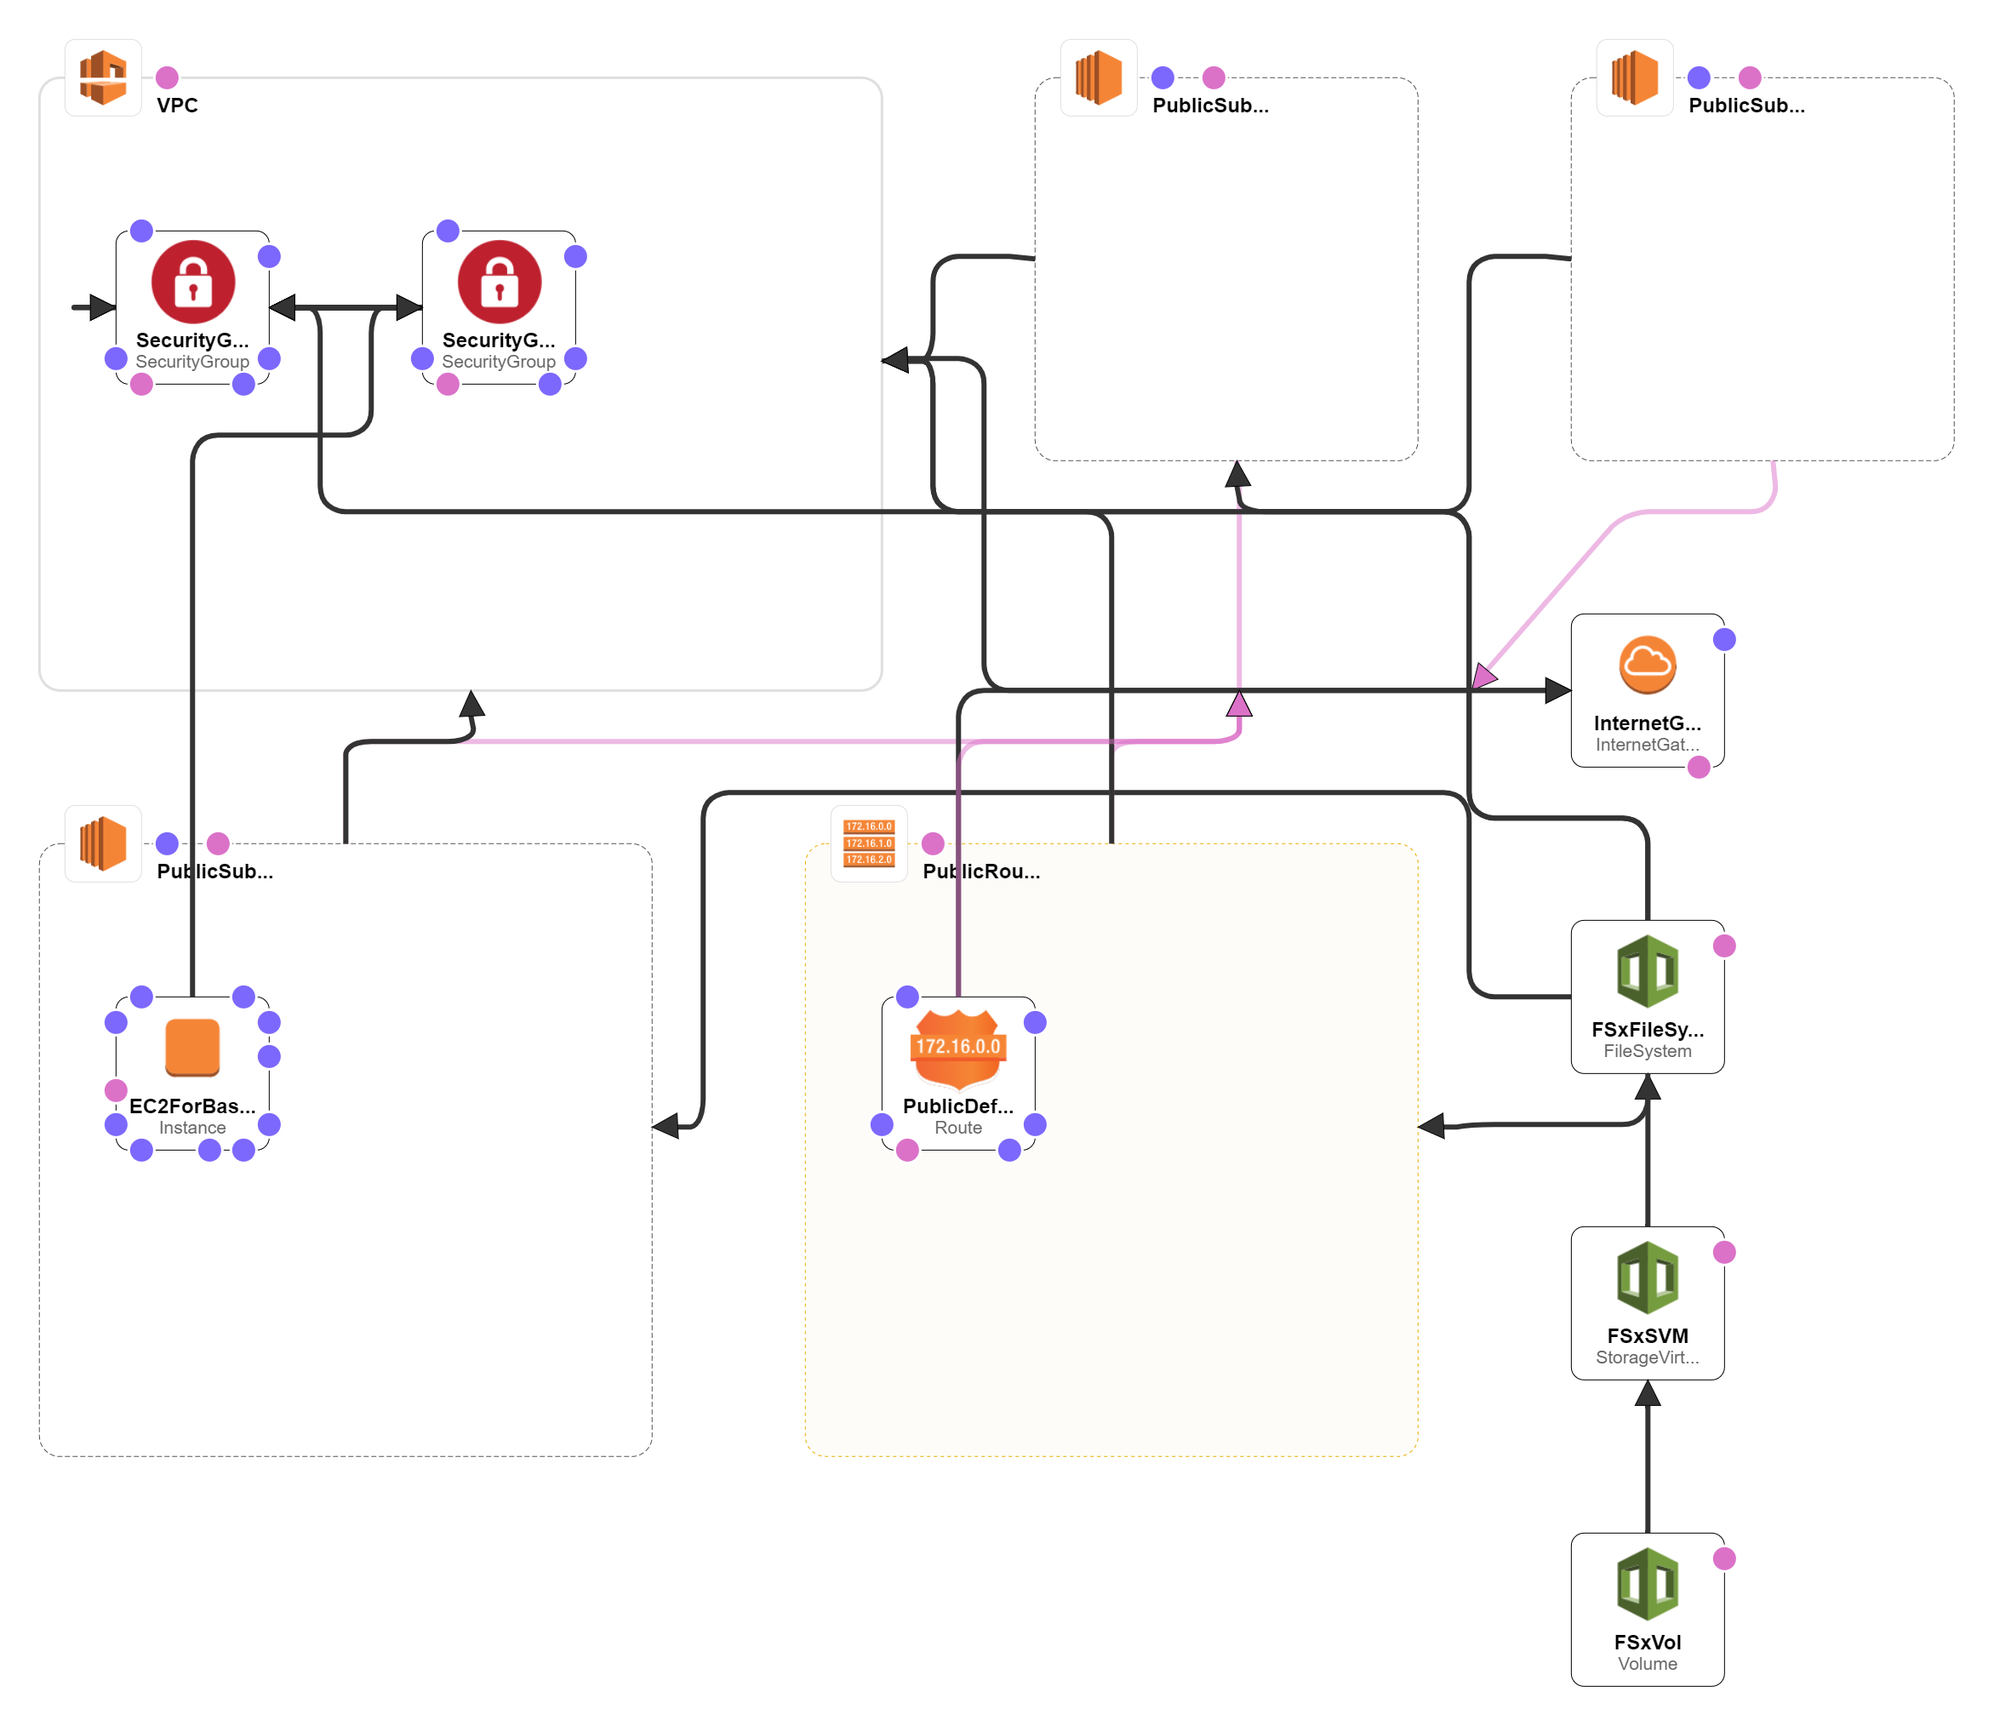
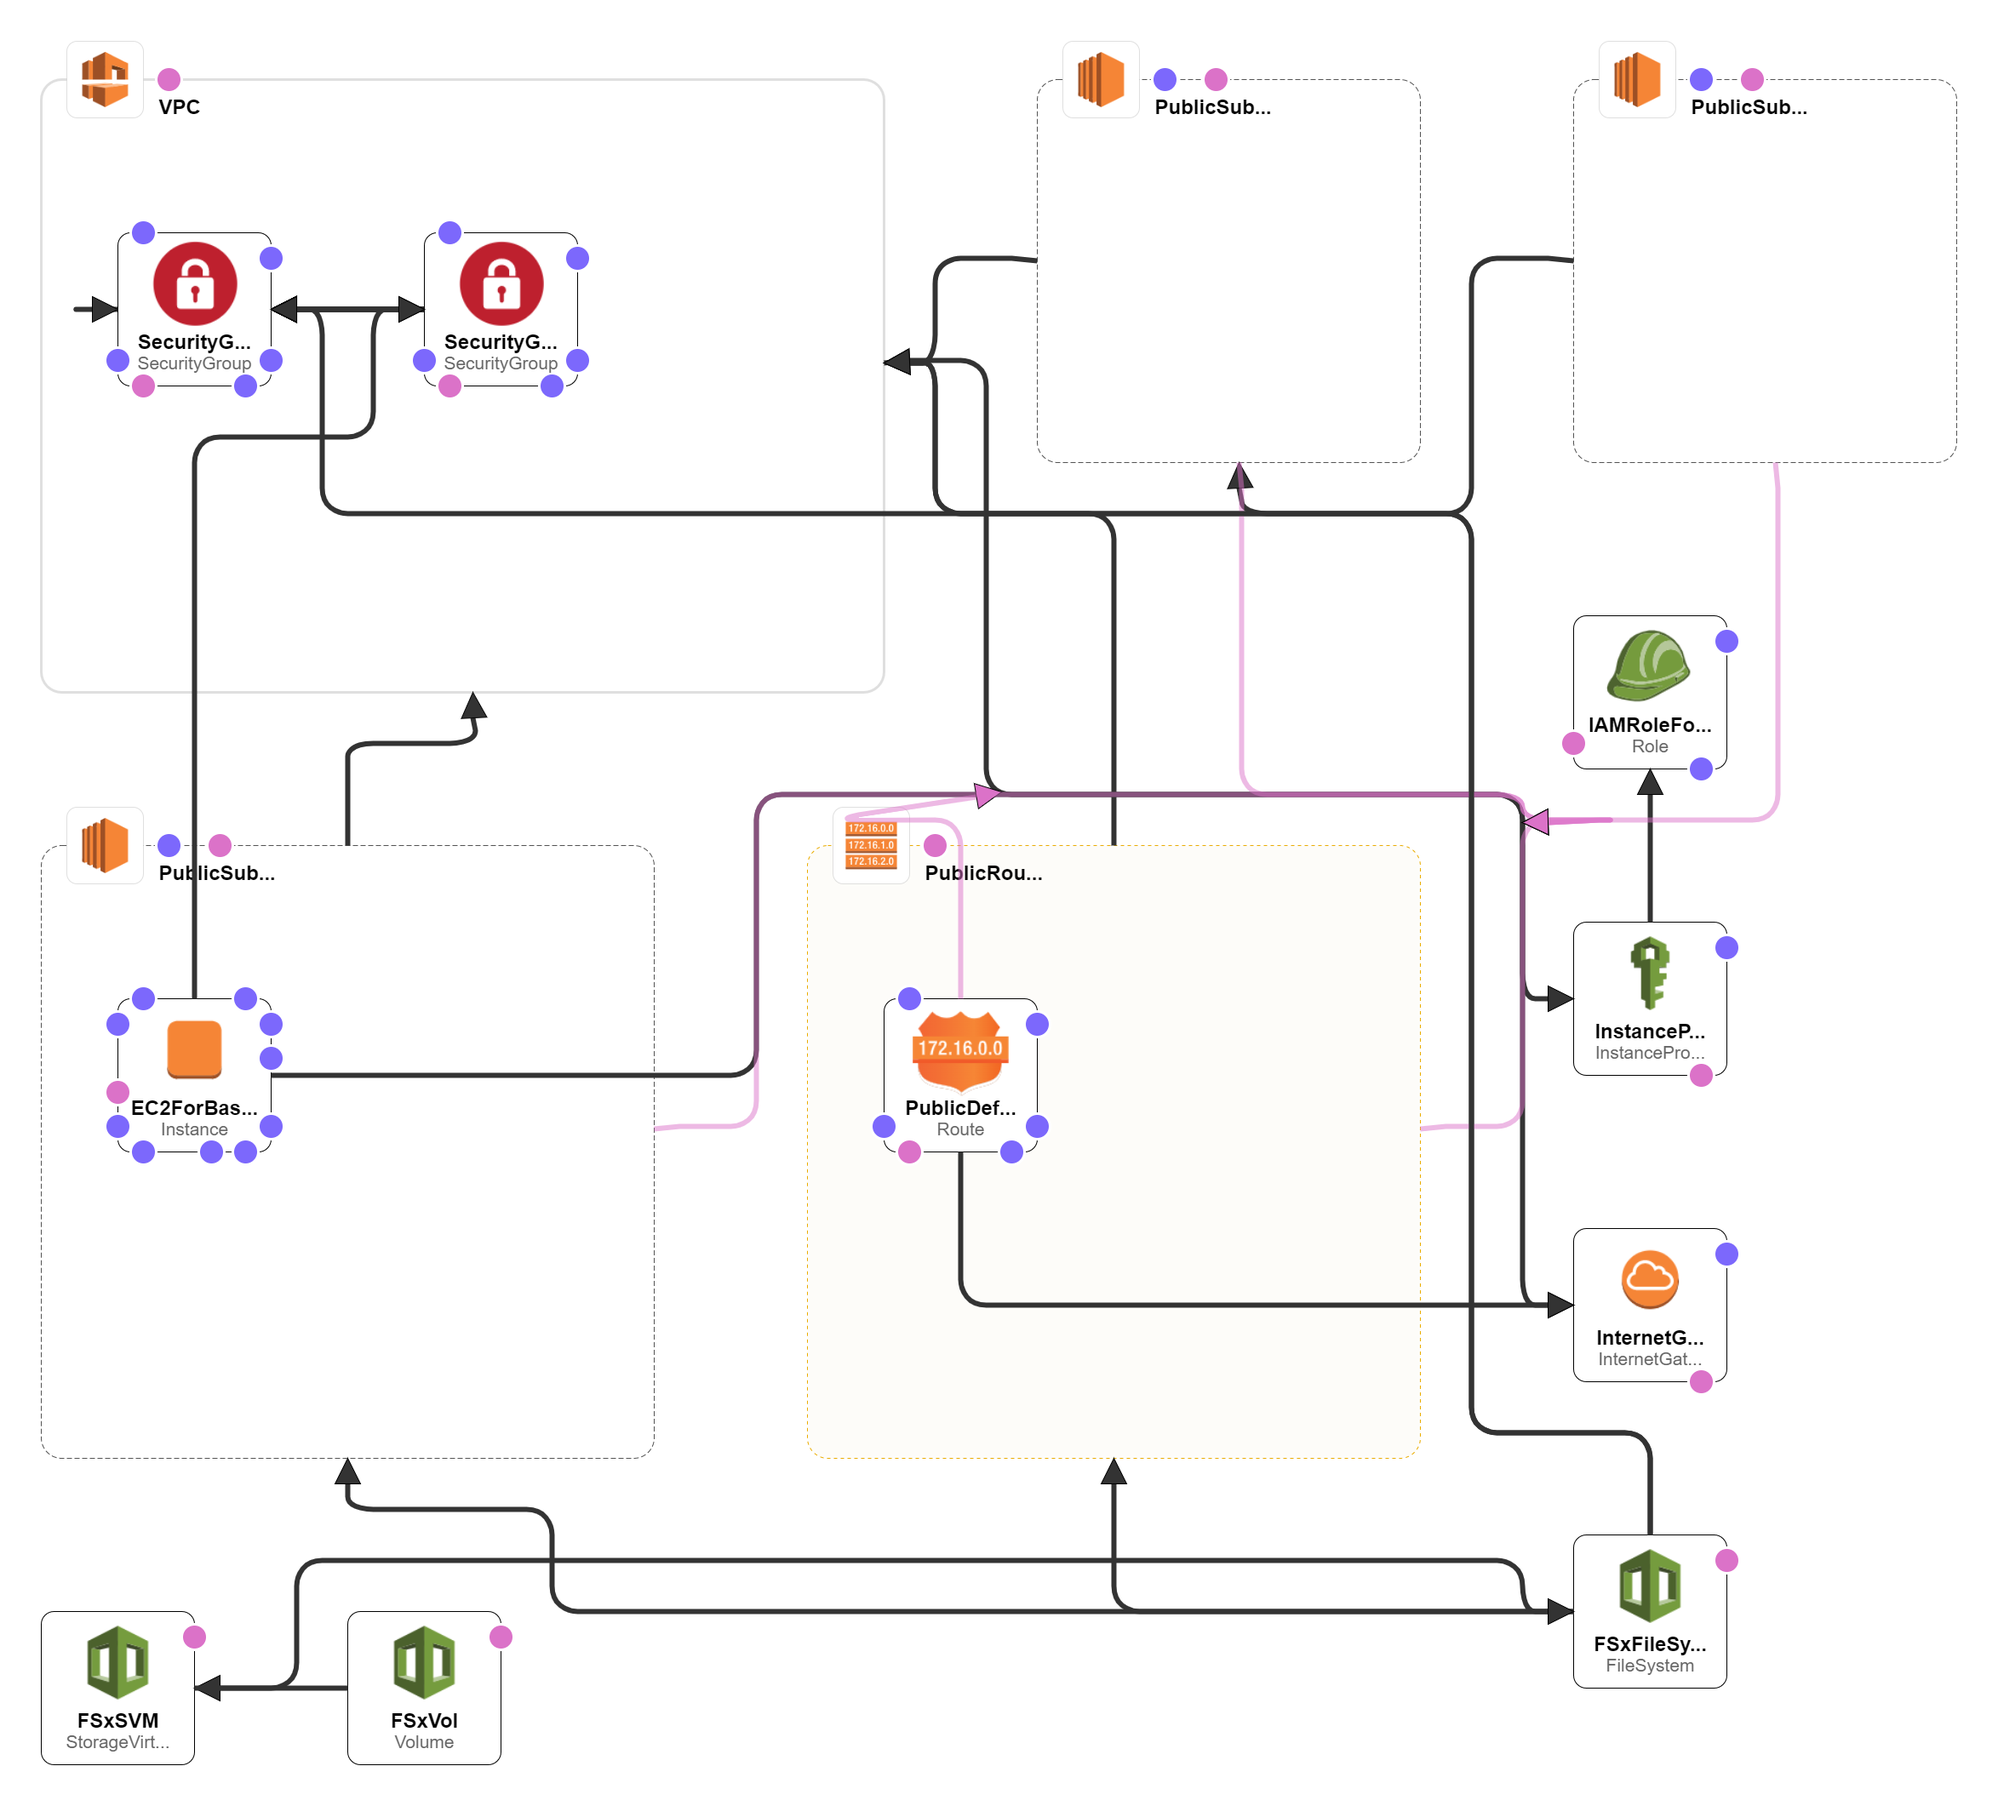
add IAM role in 20220407

diff --git a/deploy-fsxn-sandbox/README.md b/deploy-fsxn-sandbox/README.md
@@ -5,11 +5,14 @@
 - **3 public subnet** (10.0.1.0/24, 10.0.2.0/24, 10.0.3.0/24)
 - **an Internet Gateway** attached a new VPC
 - **a Route table**, whitch is associated with 3 public subnet and is added a route to a Internet Gateway as the default gateway.
-- **a Security Group for the bastion host**, which allow the following ingresses:
+- **a Security Group for the bastion host**, which allows the following ingresses:
   - from the CIDR IP range (specified by the parameter) to port 22
 - **a Security Group for FSx for ONTAP**, which allow the following ingresses from the bastion host:
   - https://docs.aws.amazon.com/fsx/latest/ONTAPGuide/limit-access-security-groups.html
+- **an IAM role for the bastion host** to whitch the "AdministratorAccess" policy is attached
+- **an instance profile for the bation host**
 - **an EC2 instance** for the bastion host, whitch installed
+  - AWS CLI v2
   - unzip
   - jq
   - wget
